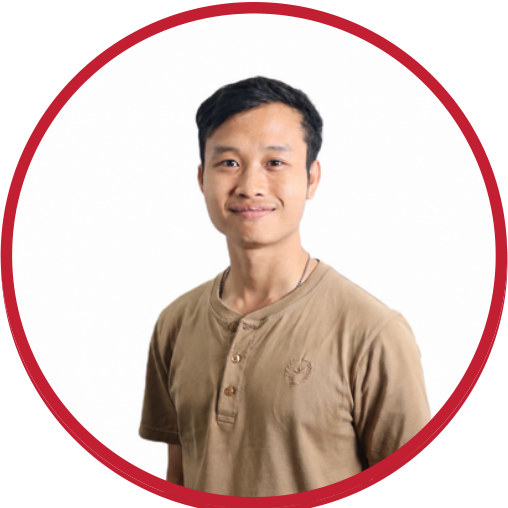
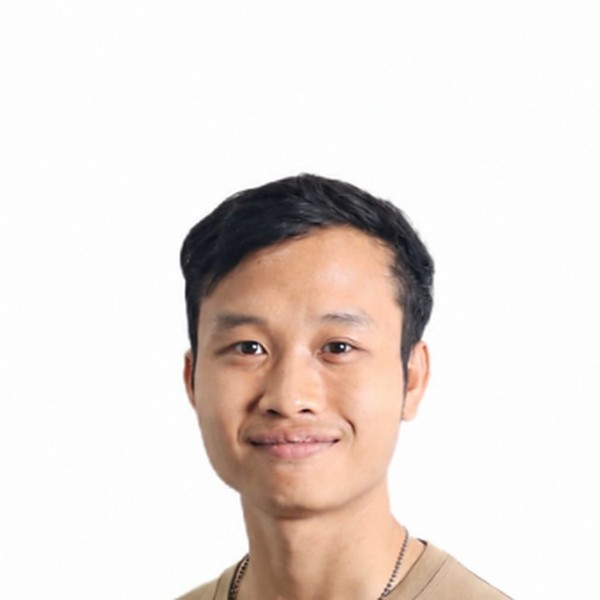
Remove NSW Rugby's internal RWC Dashboard figures; Demo view uses made-up budget lines
Budget lines, Dashboard-sourced targets and context figures are removed from js/data.js.
Real view counts public Round 1 grants only. Demo view adds 10 made-up budget lines
from demo/Dummy-dataset.csv, tagged [DUMMY]. Also commits the corrected team headshots.

diff --git a/js/app.js b/js/app.js
@@ -169,7 +169,7 @@ window.App = (() => {
     const spent = reported.reduce((s, r) => s + r.spent, 0), dummy = reported.some(r => r.dummy);
     const tiles = [
       ['Legacy funding', money(funding), '2025 to 2028', 'Total NSW Rugby World Cup Legacy Program funding. Everything on this page is about what this money delivers.'],
-      ['Allocated so far', money(c.knownTotal), `${Math.round(c.knownTotal / funding * 100)}% of the $10M`, `${moneyFull(c.knownTotal)} = Round 1 Legacy grants + 3-year RWC Dashboard budgets + any uploaded spend. Allocations, not audited spend.${D.publicRecord ? `\n\nPublic record (nsw.gov.au): the Office of Sport approved ${moneyFull(D.publicRecord.nswruLegacyGrant.amount)} to NSW Rugby for its own Legacy plan (${D.publicRecord.nswruLegacyGrant.approved}). The RWC Dashboard budget lines trace ${moneyFull(c.dashTotal)} of it, so ${moneyFull(Math.max(0, D.publicRecord.nswruLegacyGrant.amount - c.dashTotal))} of NSW Rugby's grant is not yet linked to an initiative.` : ''}`],
+      ['Allocated so far', money(c.knownTotal) + (c.dashTotal && window.DemoView?.on ? ' [DUMMY]' : ''), `${Math.round(c.knownTotal / funding * 100)}% of the $10M`, `${moneyFull(c.knownTotal)} = Round 1 Legacy grants${c.dashTotal ? ` + ${moneyFull(c.dashTotal)} in 3-year budget lines${window.DemoView?.on ? ' (made-up lines from Demo view, not real budgets)' : ''}` : ''} + any uploaded spend. Allocations, not audited spend. NSW Rugby's own 3-year budget lines are internal and not included.${D.publicRecord ? `\n\nPublic record (nsw.gov.au): the Office of Sport approved ${moneyFull(D.publicRecord.nswruLegacyGrant.amount)} to NSW Rugby for its own Legacy plan (${D.publicRecord.nswruLegacyGrant.approved}). It is not yet linked to initiatives here.` : ''}`],
       ['Not yet traced', money(Math.max(0, funding - c.knownTotal)), 'no project or budget line yet', `${moneyFull(funding)} − ${moneyFull(c.knownTotal)} allocated. Includes Round 2 grants, which are decided but not announced yet. Its impact cannot be measured until it is assigned.`],
       ['Spent so far', reported.length ? money(spent) + (dummy ? ' [DUMMY]' : '') : 'Not reported', reported.length ? `${reported.length} lines reported` : 'recipients report at acquittal', reported.length ? `Sum of spend recorded for ${reported.length} lines.${dummy ? ' Made-up figures from Demo view.' : ''}` : 'No project has finished. Recipients report actual spend in their acquittal report, when the project ends (31/12/2027 or 30/06/2028).'],
     ];
@@ -329,8 +329,8 @@ window.App = (() => {
   const PROTO = '\n\nPrototype screening indicator: not from an external framework. Pending review by the evaluation team.';
   const COL_TIPS = {
     fe: 'Sum of Facilities & Equipment (Pillar 1) Legacy grants located in this region: Round 1 grants plus uploaded spend.',
-    pw: 'Sum of Programs & Workforce (Pillar 3) grants and 3-year RWC Dashboard budget lines located in this region (other non-facility, non-inclusion lines such as activation are counted here too).',
-    inc: 'Sum of Inclusion (Pillar 4) grants and 3-year RWC Dashboard budget lines located in this region.',
+    pw: 'Sum of Programs & Workforce (Pillar 3) grants and any 3-year budget lines located in this region (other non-facility, non-inclusion lines such as activation are counted here too).',
+    inc: 'Sum of Inclusion (Pillar 4) grants and any 3-year budget lines located in this region.',
     total: 'All known allocations located in this region (grants + dashboard budgets + uploads). "Statewide" lines held centrally are not in any region.',
     perResident: 'Total $ in the region ÷ region population (indicative ABS 2021 approximation).',
     spendIndex: 'Region\'s share of regionally allocated spend ÷ its share of NSW population. 1.75x or more = above population share; 0.5x or less = below it.' + PROTO,

diff --git a/js/round2.js b/js/round2.js
@@ -97,7 +97,7 @@
       fnShare: x.herTotal ? x.fn / x.herTotal : null, pasShare: x.herTotal ? x.pas / x.herTotal : null, femShare: x.ageTotal ? x.female / x.ageTotal : null, perHead: x.ty ? x.legacy / x.ty : null, clubs: clubs.list.filter(c => c.zone === x.name).length, standards: clubs.standards[x.name] || null }));
     const nsw = { growth: total.ty / total.ly - 1, churn: 1 - total.ret / total.ly, perCoach: total.players / total.coaches, fnShare: total.fn / total.herTotal, pasShare: total.pas / total.herTotal, femShare: total.female / total.ageTotal,
       perHead: out.reduce((s, x) => s + x.legacy, 0) / out.reduce((s, x) => s + x.ty, 0) };
-    const target = A.kpiTargets().find(k => k.id === 'coachRatio')?.target || 10;
+    const target = A.kpiTargets().find(k => k.id === 'coachRatio')?.target ?? null, ref = target ?? nsw.perCoach;
     // What stands out against the total of these zones. Each is a reason to look closer, not a verdict.
     for (const x of out) {
       x.notes = [];
@@ -105,7 +105,7 @@
       if (!x.facility) x.notes.push(['No Round 1 facility grant', 'None of the Round 1 facility grants is placed in this zone.']);
       if (x.perHead != null && x.perHead < nsw.perHead / 2) x.notes.push(['Low Legacy funding per participant', `${money(x.perHead)} per participant, under half the ${money(nsw.perHead)} across these zones.`]);
       if (x.churn != null && x.churn > nsw.churn + 0.05) x.notes.push(['High churn', `${pct(x.churn)} of last year's participants did not return (NSW zones ${pct(nsw.churn)}).`]);
-      if (x.perCoach != null && x.perCoach > target + 2) x.notes.push(['Few coaches for its players', `${x.perCoach.toFixed(1)} players per coach against the plan's ${target}:1.`]);
+      if (x.perCoach != null && ref && x.perCoach > ref * 1.2) x.notes.push(['Few coaches for its players', `${x.perCoach.toFixed(1)} players per coach against ${target != null ? `the plan's ${target}:1` : `${ref.toFixed(1)}:1 across NSW zones`}.`]);
       if (x.fnShare != null && x.fnShare > nsw.fnShare * 1.5) x.notes.push(['Large First Nations community', `${pct(x.fnShare)} of participants are First Nations (NSW zones ${pct(nsw.fnShare)}).`]);
       if (x.pasShare != null && x.pasShare > nsw.pasShare * 1.5) x.notes.push(['Large Pasifika community', `${pct(x.pasShare)} are Samoan, Tongan or Fijian (NSW zones ${pct(nsw.pasShare)}).`]);
     }

diff --git a/js/methods.js b/js/methods.js
@@ -346,7 +346,7 @@
             .map(([h, b]) => `<div ${tip(b)}><b>${h}</b><span>${esc(b)}</span></div>`).join('<span class="arrow">→</span>')}
         </div>`) +
       section('m-data', 'Data in', steps([
-        ['Built-in data', 'Round 1 Legacy grants and the 3-year RWC Dashboard budgets, compiled from <i>RWC_Legacy_Data_Compilation.xlsx</i> and <i>RWC Dashboard 010926 (2).xlsx</i>, plus plan targets. Region population and First Nations share are indicative ABS 2021 approximations.'],
+        ['Built-in data', 'Round 1 Legacy grants from the public nsw.gov.au recipient lists, plus plan targets. NSW Rugby\'s internal 3-year budget lines are not included (Demo view shows made-up ones, tagged [DUMMY]). Region population and First Nations share are indicative ABS 2021 approximations.'],
         ['Project files', 'Every file in <i>Dataset/</i> is loaded as if it had been uploaded, so it is profiled, quality-rated and available to the AI.'],
         ['Uploads', 'Data Studio reads Excel, CSV, JSON, PDF, Word and text. Tables are profiled column by column (number, money, date, region, category).'],
         ['What an upload changes', 'A region + amount column becomes spend on the dashboard. Other numeric region columns become map layers. A "lens"/"impact" column becomes impact evidence. Yearly counts (players, coaches, match officials, female, First Nations or Pasifika participants) become yearly figures the recommendations and reports use.'],

diff --git a/js/demo-view.js b/js/demo-view.js
@@ -65,6 +65,12 @@ window.DemoView = (() => {
     fill('wellbeing', f => ({ ...numbers(f), date: '', dummy: true }));
     fill('methods', f => ({ ...numbers(f), _dummy: true }));
     fill('kpis', (f, id) => { const k = window.KPIF.KPIS.find(x => x.id === id); return k ? kpiEntry(k, f) : undefined; });
+    // Made-up 3-year budget lines, so the demo shows a full program. Real budget lines are never in the code.
+    const D = window.TACKLE_DATA;
+    if (D && !D.dashboard.length) for (const [name, f] of Object.entries(data.budget || {})) {
+      const y = [1, 2, 3].map(i => Number(f['y' + i]) || 0);
+      D.dashboard.push({ source: '[DUMMY] ' + FILE, initiative: '[DUMMY] ' + name, pillar: f.pillar, region: f.region, y1: y[0], y2: y[1], y3: y[2], total: y[0] + y[1] + y[2], tags: (f.tags || '').split(/[;\s]+/).filter(Boolean), status: '', dummy: true });
+    }
     targets = Object.fromEntries(Object.entries(data.targets || {}).map(([id, f]) => [id, numbers(f)]));
     measures = Object.fromEntries(Object.entries(data.measures || {}).map(([name, f]) => [name, f.value]));
     const evidence = Object.values(data.evidence || {}).map((f, i) => ({ id: `dummy-${i + 1}`, created: 0, date: '', ...f, text: `[DUMMY] ${f.text}`, source: `[DUMMY] ${f.source}`, dummy: true }));

diff --git a/js/story.js b/js/story.js
@@ -237,7 +237,7 @@
       const big = (x, label) => x ? `<div><b>+${Math.round((x.value / x.firstValue - 1) * 100)}%</b><span>${esc(label)} vs ${x.first} (${int(x.firstValue)})</span></div>` : `<div class="none"><b>NO DATA</b><span>${esc(label)} · data collection required</span></div>`;
       const row = (val, text) => val == null ? `<div class="lrow none"><b>NO DATA</b><span>${esc(text)} · data collection required</span></div>` : `<div class="lrow"><b>${esc(val)}</b><span>${esc(text)}</span></div>`;
       const tgt = id => m.kpiTarget(id);
-      const ratio = (id, label) => { const t = tgt(id); return row(t?.actual != null ? `${(+t.actual).toFixed(1)}:1` : null, `${label} · base ${t?.baseline}:1 → target ${t?.target}:1`); };
+      const ratio = (id, label) => { const t = tgt(id); return row(t?.actual != null ? `${(+t.actual).toFixed(1)}:1` : null, `${label}${t?.baseline != null ? ` · base ${t.baseline}:1 → target ${t.target}:1` : ''}`); };
       const kpi = (id, label) => { const r = m.kpiResult(id); return row(r?.real ? r.display : null, `${label} (${id})`); };
       const ret = (D.impactMethods.social.measures.find(x => /retention/i.test(x.name))?.value.match(/Retention ([\d.]+)%/) || [])[1];
       const rows = acq

diff --git a/js/programs.js b/js/programs.js
@@ -12,7 +12,7 @@
       const kind = g.datasetId ? 'upload' : 'grant';
       list.push({ kind, id: slug(`${kind}-${g.recipient || ''}-${g.project}`), name: g.project, recipient: g.recipient, pillar: g.pillar, region: g.region, town: g.town, type: g.type, tags: g.tags || [], cost: g.amount, source: g.source });
     }
-    for (const d of D.dashboard) list.push({ kind: 'budget', id: slug(`budget-${d.initiative}`), name: d.initiative, recipient: 'NSWRU', pillar: d.pillar, region: d.region, type: d.initiative, tags: d.tags || [], cost: d.total, years: [d.y1, d.y2, d.y3], status: d.status, source: 'RWC Dashboard' });
+    for (const d of D.dashboard) list.push({ kind: 'budget', id: slug(`budget-${d.initiative}`), name: d.initiative, recipient: 'NSWRU', pillar: d.pillar, region: d.region, type: d.initiative, tags: d.tags || [], cost: d.total, years: [d.y1, d.y2, d.y3], status: d.status, source: d.source || 'Budget line' });
     return list;
   }
 

diff --git a/docs/HANDOVER.md b/docs/HANDOVER.md
@@ -34,7 +34,7 @@ This page is for whoever takes the project over. Start here, then read:
 
 ## Where the data comes from
 
-- Built-in data in `js/data.js` was compiled from `Dataset/RWC_Legacy_Data_Compilation.xlsx` and `Dataset/RWC Dashboard 010926 (2).xlsx` (compiled 24 Sep 2026).
+- Built-in data in `js/data.js` was compiled from public grant lists and reports. NSW Rugby's internal RWC Dashboard budgets are not included in the code; Demo view shows made-up budget lines tagged [DUMMY].
 - KPI formulas, input rules, baselines and sources come from `Dataset/NSW_Rugby_KPI_Formula_Web_Handover.xlsx` (27 KPIs; it supersedes `NSW_Rugby_Economic_KPI_Formula_Summary.xlsx`).
 - The **Framework** tab is the project deliverable in tool-independent form; download it as a document, `framework.json` or `input-fields.csv` to rebuild it elsewhere.
 - Region populations and First Nations shares are **indicative** ABS 2021 approximations, used only to compare spend fairly between regions.

diff --git a/README.md b/README.md
@@ -130,7 +130,7 @@ Switch models from the AI pill in the top bar.
 
 ## Data notes
 
-- Seed data in [js/data.js](js/data.js) was compiled from `Dataset/RWC_Legacy_Data_Compilation.xlsx` and `Dataset/RWC Dashboard 010926 (2).xlsx`.
+- Seed data in [js/data.js](js/data.js) was compiled from public grant lists and reports. NSW Rugby's internal RWC Dashboard budgets are not included in the code; Demo view shows made-up budget lines tagged [DUMMY].
 - Spend is **known allocations** (3-year dashboard budgets plus Round 1 grants), not audited expenditure.
 - Region **population** and **First Nations share** are indicative ABS 2021 approximations, used only to normalise spend.
 - "Spend vs population" = a region's share of spend ÷ its share of population. 1.75x or more is flagged as overspend risk; 0.5x or less as under-served.
